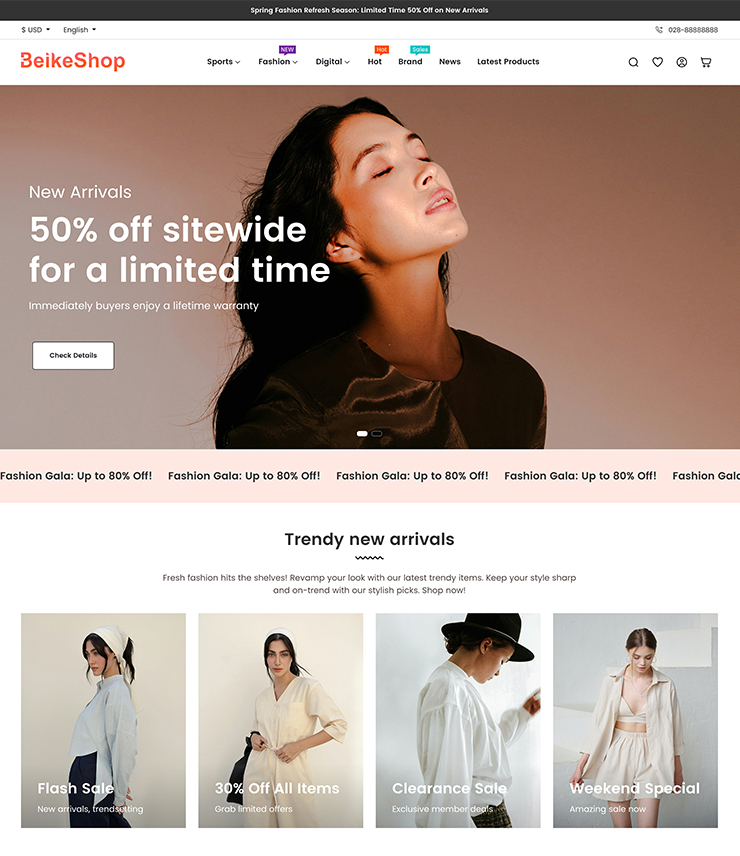
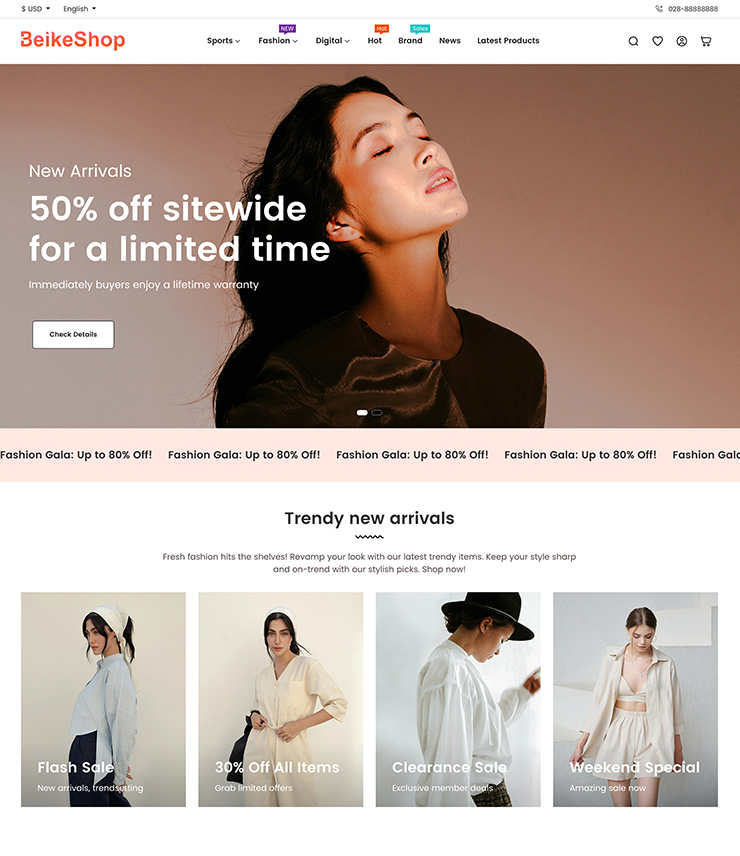
https://guangdagit.com/beike/bugs/issues/210 https://guangdagit.com/beike/bugs/issues/172

diff --git a/resources/beike/admin/js/bootstrap-validation.js b/resources/beike/admin/js/bootstrap-validation.js
@@ -3,7 +3,7 @@
  * @link          https://beikeshop.com
  * @Author        pu shuo <pushuo@guangda.work>
  * @Date          2022-08-17 15:42:46
- * @LastEditTime  2024-07-09 20:36:53
+ * @LastEditTime  2024-12-20 16:56:01
  */
 
 // Example starter JavaScript for disabling form submissions if there are invalid fields
@@ -20,6 +20,14 @@ $(function () {
       $(`form#${form}`).submit();
     }
   });
+
+  $(document).on('input', '.input-group input', function(event) {
+    if (!$(this).siblings('.invalid-feedback').is(':visible')) {
+      $(this).parent().removeClass('error-invalid');
+    } else {
+      $(this).parent().addClass('error-invalid');
+    }
+  })
 
   // 表单保存统一添加加载动画
   $(document).on('submit', 'form', function(event) {
@@ -65,6 +73,11 @@ $(function () {
             // 兼容使用 element ui input、autocomplete 组件，在传统提交报错ui显示
             if ($(el).siblings('div[class^="el-"]')) {
               $(el).siblings('div[class^="el-"]').find('.el-input__inner').addClass('error-invalid-input')
+            }
+
+            // invalid-feedback
+            if ($(el).parents('.input-group')) {
+              $(el).parents('.input-group').addClass('error-invalid');
             }
 
             if ($(el).parents('.tab-pane')) {

diff --git a/resources/beike/admin/css/_global.scss b/resources/beike/admin/css/_global.scss
@@ -107,6 +107,19 @@
   flex: 1;
 }
 
+.input-group {
+  position: relative;
+  &.error-invalid {
+    margin-bottom: 20px;
+  }
+
+ .invalid-feedback {
+    position: absolute;
+    top: 100%;
+    left: 0;
+  }
+}
+
 .help-text {
   color: #999;
   margin-top: 4px;
@@ -153,7 +166,7 @@
 }
 
 input[type="number"] {
-  padding: 0.375rem;
+  padding-right: 0.75rem;
   -moz-appearance: textfield;
 }
 

diff --git a/resources/beike/admin/css/_page-product.scss b/resources/beike/admin/css/_page-product.scss
@@ -103,6 +103,13 @@ body.page-product-form {
       margin-bottom: 10px;
     }
 
+    .table-skus {
+      input {
+        padding-left: 6px;
+        padding-right: 6px;
+      }
+    }
+
     .title {
       margin-bottom: 12px;
       display: flex;

diff --git a/resources/beike/admin/views/pages/products/form/form.blade.php b/resources/beike/admin/views/pages/products/form/form.blade.php
@@ -55,7 +55,7 @@
     <div class="card-body h-min-600">
       <form novalidate class="needs-validation"
             action="{{ $product->id ? admin_route('products.update', $product) : admin_route('products.store') }}"
-            method="POST" id="app">
+            method="POST" id="app" v-cloak>
         @csrf
         @method($product->id ? 'PUT' : 'POST')
         <input type="hidden" name="_redirect" value="{{ $_redirect }}"/>
@@ -149,7 +149,7 @@
                   name="weight_class"
                   class="form-select ms-4 bg-white"
                   :options="$weight_classes"
-                  :value="$product->weight_class"
+                  :value="$product->weight_class ?? $system_weight"
                   label="echo __('product.' . $option);"
                   format="0"
                 />
@@ -326,11 +326,11 @@
                         <th width="106px">{{ __('common.image') }}</th>
                         <th class="w-min-100">{{ __('admin/product.model') }}</th>
                         <th class="w-min-100">sku</th>
-                        <th class="w-min-100">{{ __('admin/product.price') }}</th>
-                        <th class="w-min-100">{{ __('admin/product.origin_price') }}</th>
-                        <th class="w-min-100">{{ __('admin/product.cost_price') }}</th>
+                        <th class="w-min-100">{{ __('admin/product.price') }}<span class="font-size-12 fw-normal text-secondary">({{$system_currency}})</span></th>
+                        <th class="w-min-100">{{ __('admin/product.origin_price') }}<span class="font-size-12 fw-normal text-secondary">({{$system_currency}})</span></th>
+                        <th class="w-min-100">{{ __('admin/product.cost_price') }}<span class="font-size-12 fw-normal text-secondary">({{$system_currency}})</span></th>
                         <th style="width: 70px">{{ __('admin/product.quantity') }}</th>
-                        <th style="width: 70px">{{ __('admin/product.weight_text') }}</th>
+                        <th style="width: 70px">{{ __('admin/product.weight_text') }}<span class="font-size-12 fw-normal text-secondary variant-weight"></span></th>
                         @hook('admin.product.edit.sku.variants.title.after')
                         </thead>
                         <tbody>
@@ -425,12 +425,11 @@
                 <x-admin-form-input name="skus[0][sku]" title="sku"
                                     :value="old('skus.0.sku', $product->skus[0]->sku ?? $defaul_sku)" required/>
                 <x-admin-form-input name="skus[0][price]" type="number" :title="__('admin/product.price')"
-                                    :value="old('skus.0.price', $product->skus[0]->price ?? '')" step="any" required/>
+                :group-right="$system_currency" :value="old('skus.0.price', $product->skus[0]->price ?? '')" step="any" required/>
                 <x-admin-form-input name="skus[0][origin_price]" type="number" :title="__('admin/product.origin_price')"
-                                    :value="old('skus.0.origin_price', $product->skus[0]->origin_price ?? '')"
-                                    step="any"/>
+                :group-right="$system_currency" :value="old('skus.0.origin_price', $product->skus[0]->origin_price ?? '')" step="any"/>
                 <x-admin-form-input name="skus[0][cost_price]" type="number" :title="__('admin/product.cost_price')"
-                                    :value="old('skus.0.cost_price', $product->skus[0]->cost_price ?? '')" step="any"/>
+                :group-right="$system_currency" :value="old('skus.0.cost_price', $product->skus[0]->cost_price ?? '')" step="any"/>
                 <x-admin-form-input name="skus[0][quantity]" type="number" :title="__('admin/product.quantity')"
                                     :value="old('skus.0.quantity', $product->skus[0]->quantity ?? '')"/>
                 <input type="hidden" name="skus[0][variants]" placeholder="variants" value="">
@@ -1342,7 +1341,7 @@
       return results;
     }
 
-    $(document).ready(function ($) {
+    $(function ($) {
       $('#brand-autocomplete').autocomplete({
         'source': function (request, response) {
           $http.get(`brands/autocomplete?name=${encodeURIComponent(request)}`, null, {hload: true}).then((res) => {
@@ -1356,6 +1355,13 @@
           $('input[name="brand_id"]').val(item['value']);
         }
       });
+
+      // variant-weight
+      $('select[name="weight_class"]').on('change', function () {
+        $('.variant-weight').text(`(${$('option:selected', this).text()})`);
+      });
+
+      $('select[name="weight_class"]').trigger('change');
 
       // skus[*][sku] 只能填写 数字、字母、中横线、下划线
       $(document).on('input', 'input[name^="skus"][name$="[sku]"]', function () {

diff --git a/resources/beike/admin/views/pages/setting.blade.php b/resources/beike/admin/views/pages/setting.blade.php
@@ -90,24 +90,18 @@
               </div>
             </x-admin::form.row>
 
-            <x-admin-form-select title="{{ __('admin/setting.default_currency') }}" name="currency" :value="old('currency', system_setting('base.currency', 'USD'))" :options="$currencies->toArray()" key="code" label="name">
-              <div class="help-text font-size-12 lh-base">{{ __('admin/setting.default_currency') }}</div>
-            </x-admin-form-select>
+            <x-admin-form-select title="{{ __('admin/setting.default_currency') }}" name="currency" :value="old('currency', system_setting('base.currency', 'USD'))" :options="$currencies->toArray()" key="code" label="name" />
 
-            <x-admin-form-select title="{{ __('admin/setting.default_language') }}" name="locale" :value="old('locale', system_setting('base.locale', 'zh_cn'))" :options="$languages" key="code" label="name">
-              <div class="help-text font-size-12 lh-base">{{ __('admin/setting.default_language') }}</div>
-            </x-admin-form-select>
+            <x-admin-form-select title="{{ __('admin/setting.default_language') }}" name="locale" :value="old('locale', system_setting('base.locale', 'zh_cn'))" :options="$languages" key="code" label="name" />
 
             @php
-              $weights = [['code'=>'kg','name'=>'kg'], ['code'=>'g','name'=>'g'], ['code'=>'oz','name'=>'oz'], ['code'=>'lb','name'=>'lb']];
+              $weight = array_map(function ($value) {
+                return ['code' => $value, 'name' => trans('product.' . $value)];
+              }, $weight_classes);
             @endphp
-            <x-admin-form-select title="{{ __('admin/setting.weight_unit') }}" name="weight" :value="old('weight', system_setting('base.weight', 'kg'))" :options="$weights" key="code" label="name">
-              <div class="help-text font-size-12 lh-base">{{ __('admin/setting.weight_unit') }}</div>
-            </x-admin-form-select>
+            <x-admin-form-select title="{{ __('admin/setting.weight_unit') }}"  name="weight" :options="$weight" :value="old('weight', system_setting('base.weight', 'kg'))" key="code" label="name" />
 
-            <x-admin-form-select title="{{ __('admin/setting.default_customer_group') }}" name="default_customer_group_id" :value="old('locale', system_setting('base.default_customer_group_id', ''))" :options="$customer_groups" key="id" label="name">
-                <div class="help-text font-size-12 lh-base">{{ __('admin/setting.default_customer_group') }}</div>
-            </x-admin-form-select>
+            <x-admin-form-select title="{{ __('admin/setting.default_customer_group') }}" name="default_customer_group_id" :value="old('locale', system_setting('base.default_customer_group_id', ''))" :options="$customer_groups" key="id" label="name" />
 
             <x-admin-form-input name="admin_name" title="{{ __('admin/setting.admin_name') }}" required value="{{ old('admin_name', system_setting('base.admin_name', 'admin')) }}">
               <div class="help-text font-size-12 lh-base">{{ __('admin/setting.admin_name_info') }}</div>

diff --git a/database/seeders/ThemeSeeder.php b/database/seeders/ThemeSeeder.php
@@ -849,8 +849,8 @@ class ThemeSeeder extends Seeder
                                 ],
                                 "show" =>false,
                                 "link" => [
-                                    "type" =>"product",
-                                    "value" =>"",
+                                    "type" =>"category",
+                                    "value" =>100007,
                                     "link" =>""
                                 ]
                             ],
@@ -866,8 +866,8 @@ class ThemeSeeder extends Seeder
                                 ],
                                 "show" =>false,
                                 "link" => [
-                                    "type" =>"product",
-                                    "value" =>"",
+                                    "type" =>"category",
+                                    "value" =>100003,
                                     "link" =>""
                                 ]
                             ],
@@ -883,8 +883,8 @@ class ThemeSeeder extends Seeder
                                 ],
                                 "show" =>false,
                                 "link" => [
-                                    "type" =>"product",
-                                    "value" =>"",
+                                    "type" =>"category",
+                                    "value" =>100018,
                                     "link" =>""
                                 ]
                             ],
@@ -900,8 +900,8 @@ class ThemeSeeder extends Seeder
                                 ],
                                 "show" =>true,
                                 "link" => [
-                                    "type" =>"product",
-                                    "value" =>"",
+                                    "type" =>"category",
+                                    "value" =>100006,
                                     "link" =>""
                                 ]
                             ]

diff --git a/resources/beike/admin/views/components/form/input.blade.php b/resources/beike/admin/views/components/form/input.blade.php
@@ -3,20 +3,27 @@
     $is_invalid = $error ? 'is-invalid' : '';
     $placeholder = $placeholder ?: $title;
   @endphp
+
+  @if ($groupLeft || $groupRight)
+  <div class="input-group wp-{{ $width }}">
+    @if ($groupLeft) <span class="input-group-text">{{ $groupLeft }}</span> @endif
+    <input type="{{ $type }}" name="{{ $name }}"
+      class="form-control wp-{{ $width }} {{ $is_invalid }}" value="{{ $value }}"
+      placeholder="{{ $placeholder }}" @if ($required) required
+      @endif @if ($step) step="{{ $step }}" @endif>
+    <span class="invalid-feedback" role="alert">@if ($error) {{ $error }} @else {{ __('common.error_required', ['name' => $title]) }} @endif</span>
+    @if ($groupRight) <span class="input-group-text">{{ $groupRight }}</span> @endif
+  </div>
+  @else
   <input type="{{ $type }}" name="{{ $name }}"
          class="form-control wp-{{ $width }} {{ $is_invalid }}" value="{{ $value }}"
          placeholder="{{ $placeholder }}" @if ($required) required
          @endif @if ($step) step="{{ $step }}" @endif>
+  <span class="invalid-feedback" role="alert">@if ($error) {{ $error }} @else {{ __('common.error_required', ['name' => $title]) }} @endif</span>
+  @endif
+
   @if ($description)
     <div class="help-text font-size-12 lh-base">{!! $description !!}</div>
   @endif
-
-  <span class="invalid-feedback" role="alert">
-    @if ($error)
-      {{ $error }}
-    @else
-      {{ __('common.error_required', ['name' => $title]) }}
-    @endif
-  </span>
   {{ $slot }}
 </x-admin::form.row>

diff --git a/beike/Admin/View/Components/Form/Input.php b/beike/Admin/View/Components/Form/Input.php
@@ -24,9 +24,13 @@ class Input extends Component
 
     public string $step;
 
+    public string $groupLeft;
+
+    public string $groupRight;
+
     public bool $required;
 
-    public function __construct(string $name, string $title, string $value, bool $required = false, string $error = '', string $width = '400', string $type = 'text', string $step = '', string $placeholder = '', string $description = '')
+    public function __construct(string $name, string $title, string $value, bool $required = false, string $error = '', string $width = '400', string $type = 'text', string $step = '', string $placeholder = '', string $description = '', string $groupLeft = '', string $groupRight = '')
     {
         $this->name        = $name;
         $this->title       = $title;
@@ -38,6 +42,8 @@ class Input extends Component
         $this->step        = $step;
         $this->required    = $required;
         $this->description = $description;
+        $this->groupLeft   = $groupLeft;
+        $this->groupRight  = $groupRight;
     }
 
     public function render()

diff --git a/beike/Admin/Http/Controllers/SettingController.php b/beike/Admin/Http/Controllers/SettingController.php
@@ -19,6 +19,7 @@ use Beike\Repositories\CustomerGroupRepo;
 use Beike\Repositories\LanguageRepo;
 use Beike\Repositories\SettingRepo;
 use Beike\Repositories\ThemeRepo;
+use Beike\Libraries\Weight;
 use Exception;
 use Illuminate\Http\JsonResponse;
 use Illuminate\Http\Request;
@@ -43,6 +44,7 @@ class SettingController extends Controller
             'countries'       => CountryRepo::listEnabled(),
             'currencies'      => CurrencyRepo::listEnabled(),
             'languages'       => LanguageRepo::enabled()->toArray(),
+            'weight_classes'  => Weight::getWeightUnits(),
             'tax_address'     => $taxAddress,
             'customer_groups' => CustomerGroupDetail::collection(CustomerGroupRepo::list())->jsonSerialize(),
             'themes'          => $themes,

diff --git a/beike/Admin/Http/Controllers/ProductController.php b/beike/Admin/Http/Controllers/ProductController.php
@@ -177,6 +177,8 @@ class ProductController extends Controller
             'relations'             => ProductResource::collection($product->relations)->resource,
             'languages'             => LanguageRepo::all(),
             'tax_classes'           => $taxClasses,
+            'system_currency'           => system_setting('base.currency', 'USD'),
+            'system_weight'           => system_setting('base.weight', 'kg'),
             'weight_classes'        => Weight::getWeightUnits(),
             'source'                => [
                 'flatten_categories' => FlattenCategoryRepo::getCategoryList(),

diff --git a/beike/Shop/Http/Resources/PageDetail.php b/beike/Shop/Http/Resources/PageDetail.php
@@ -35,7 +35,7 @@ class PageDetail extends JsonResource
             'views'                => $this->views,
             'title'                => $description->title ?? '',
             'title_format'         => sub_string($description->title ?? '', 64),
-            'content'              => $description->content,
+            'content'              => $description->content ?? '',
             'summary'              => $description->summary,
             'summary_format'       => sub_string($description->summary, 100),
             'meta_title'           => $description->meta_title,
